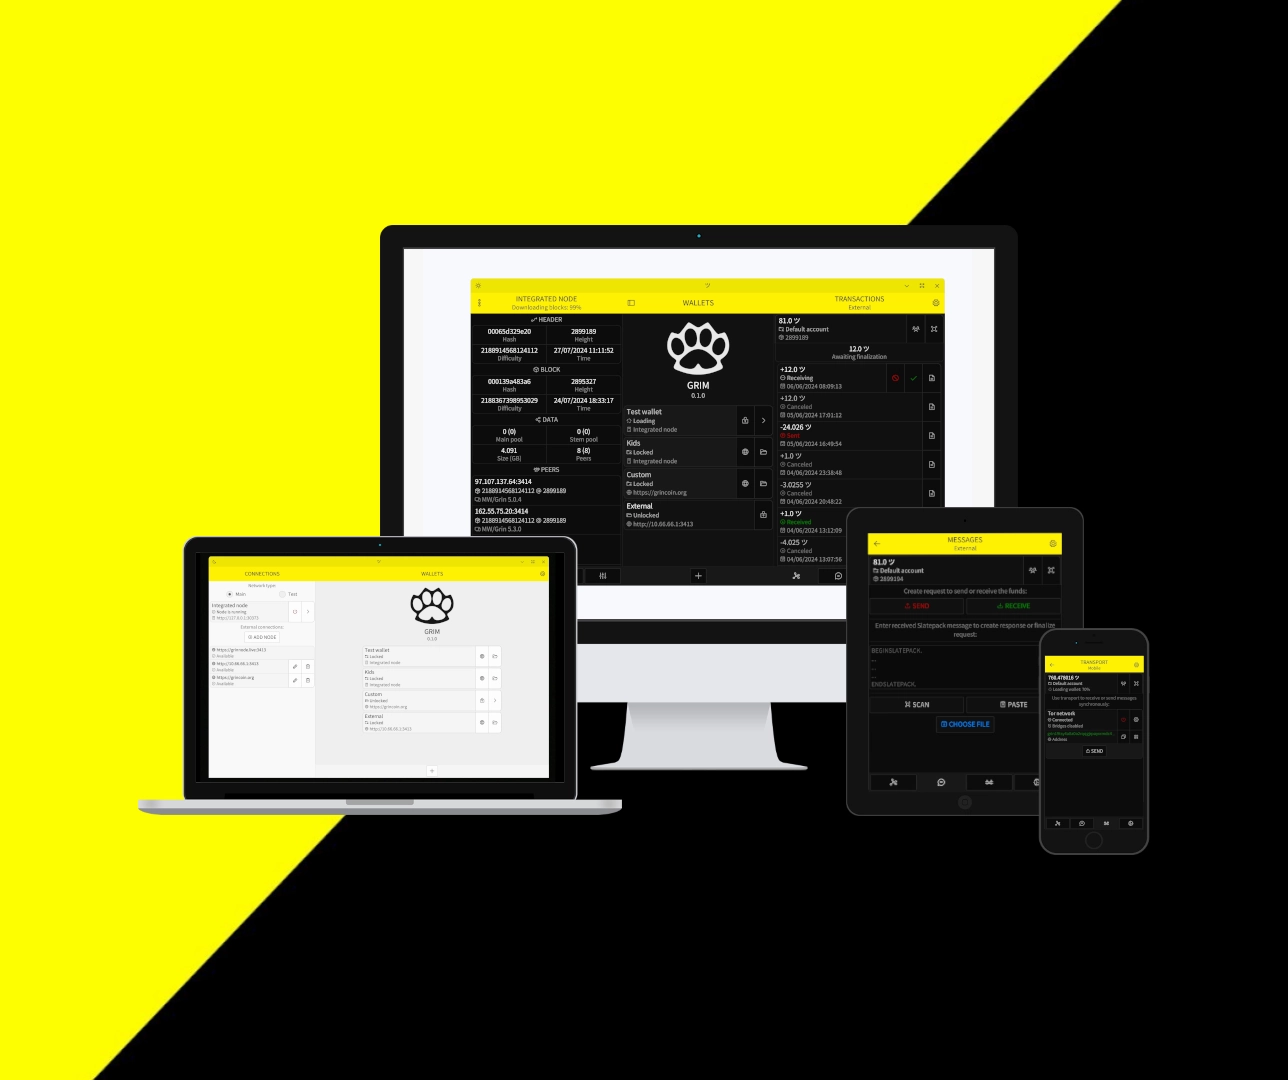
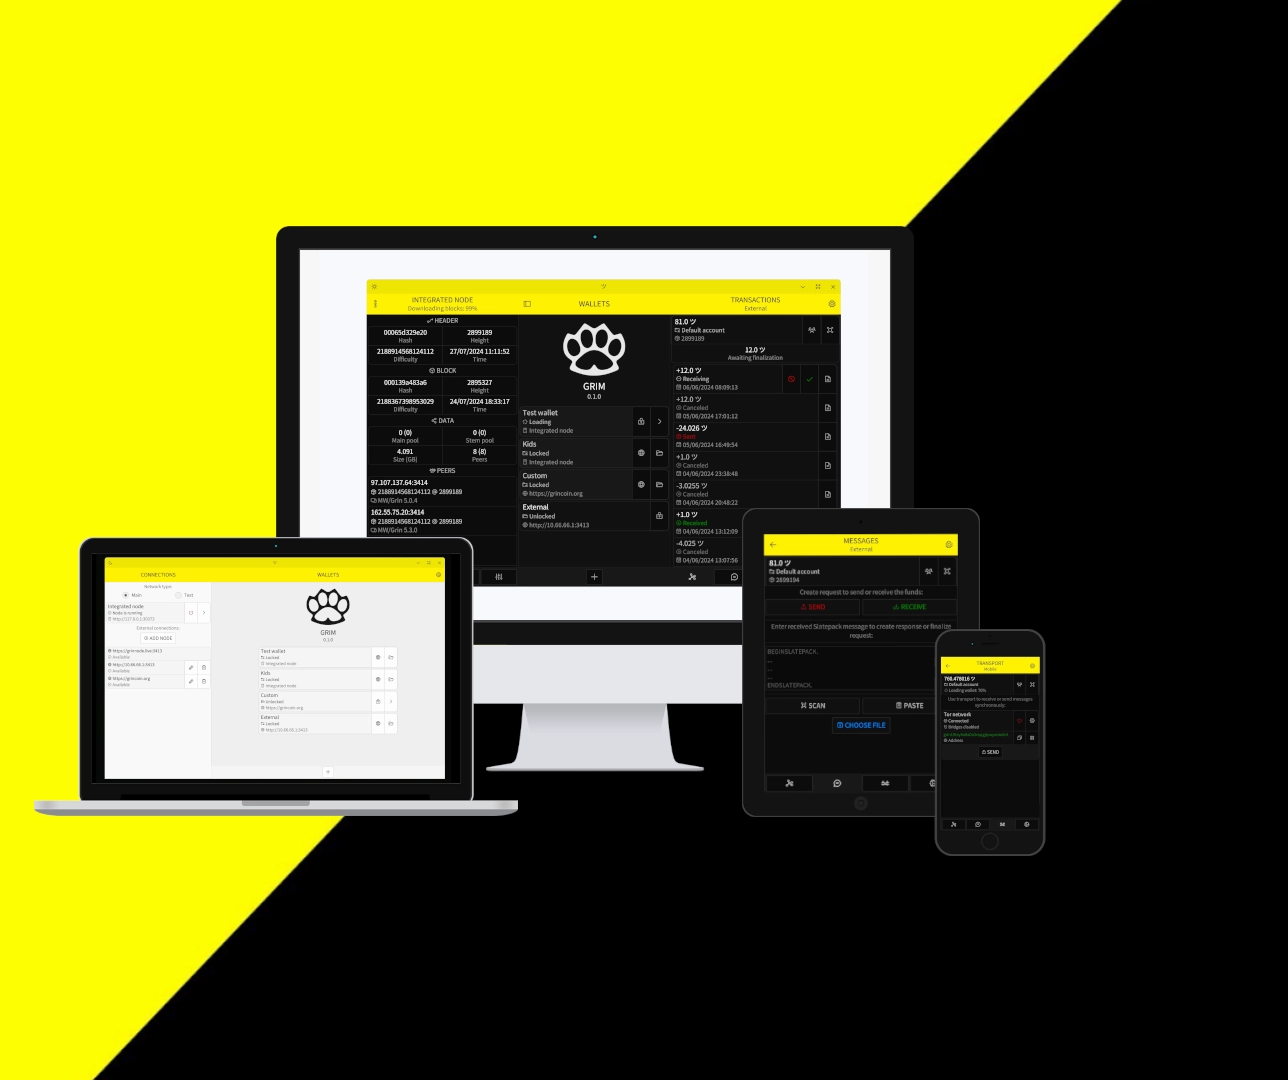
Fix background image

Changed region(s): [[0.0311, 0.1833, 0.9006, 0.7944], [0.2795, 0.6111, 0.3106, 0.6722]]

diff --git a/index.html b/index.html
@@ -25,7 +25,7 @@
                             <p class="u-align-left-sm u-align-left-xs u-align-right-lg u-align-right-md u-align-right-xl u-text u-text-3">
                                 <a href="https://github.com/ardocrat/grim" target="_blank">Github</a><br>
                                 <a href="https://t.me/grim_app" target="_blank">Telegram</a><br>
-                                <a href="mailto:ardocrat@proton.me" target="_blank">E-mail</a>
+                                <a href="mailto:grimapp@proton.me" target="_blank">E-mail</a>
                             </p>
                         </div>
                     </div>
